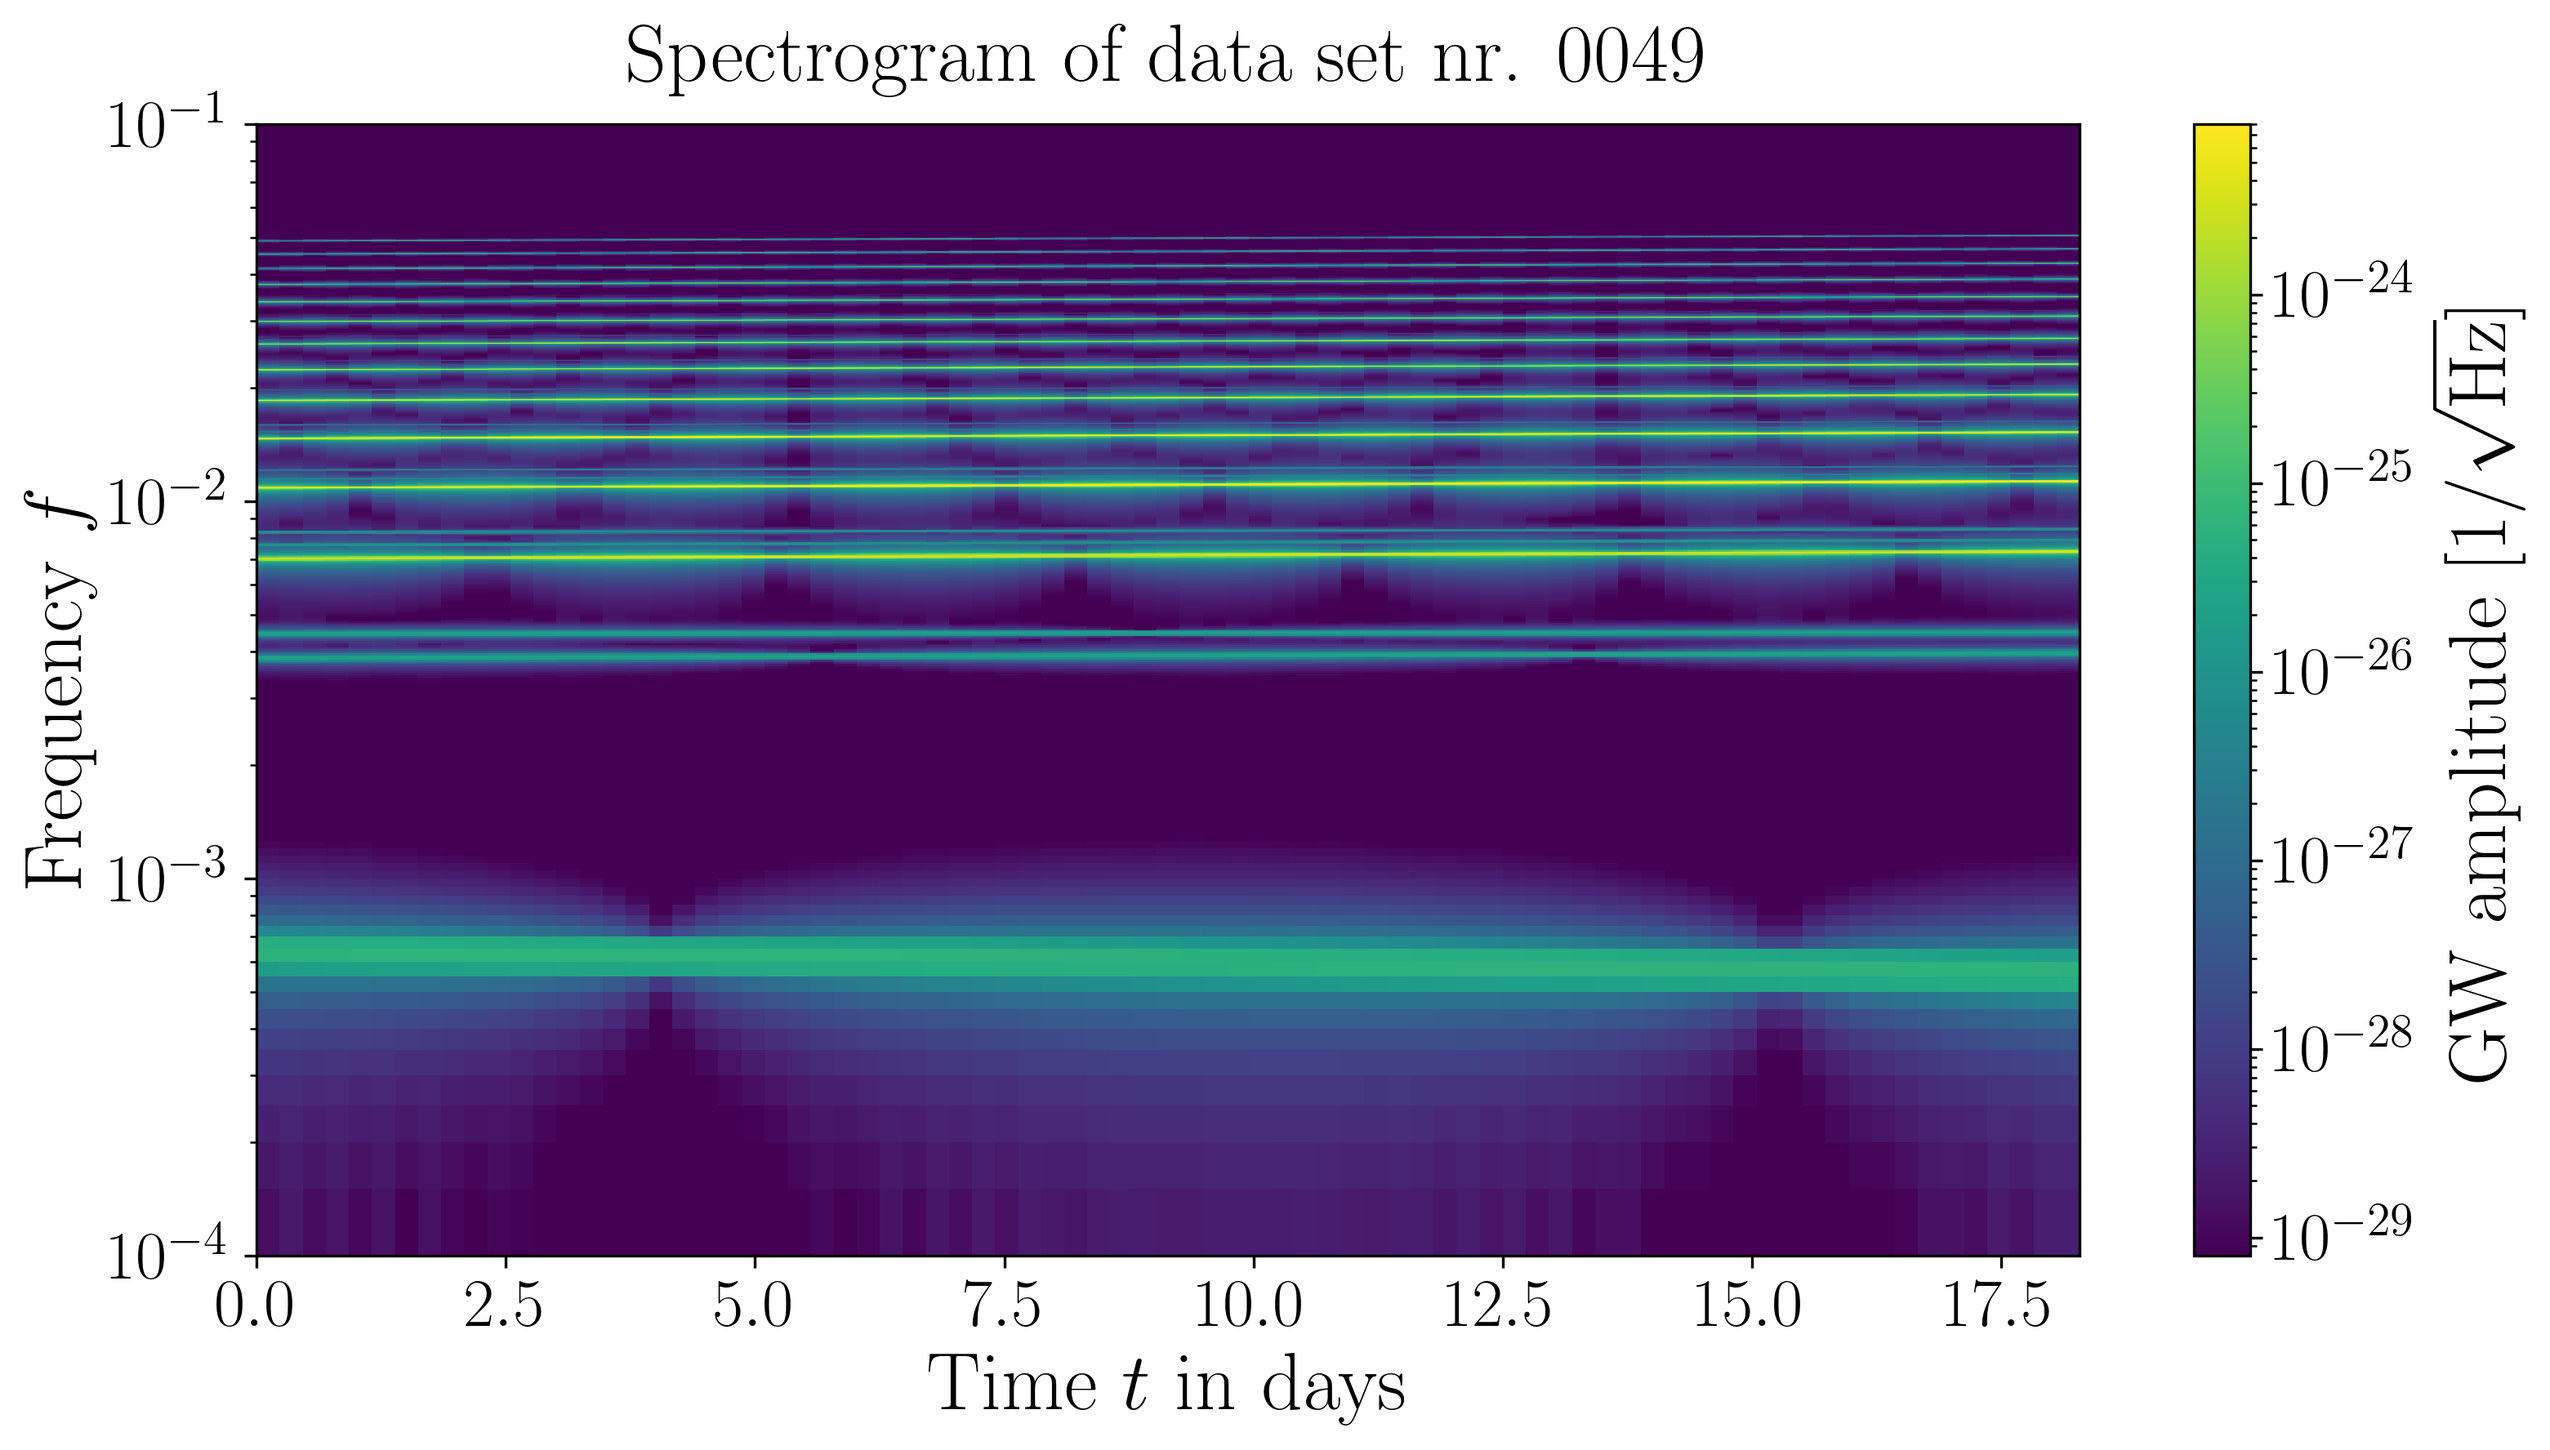
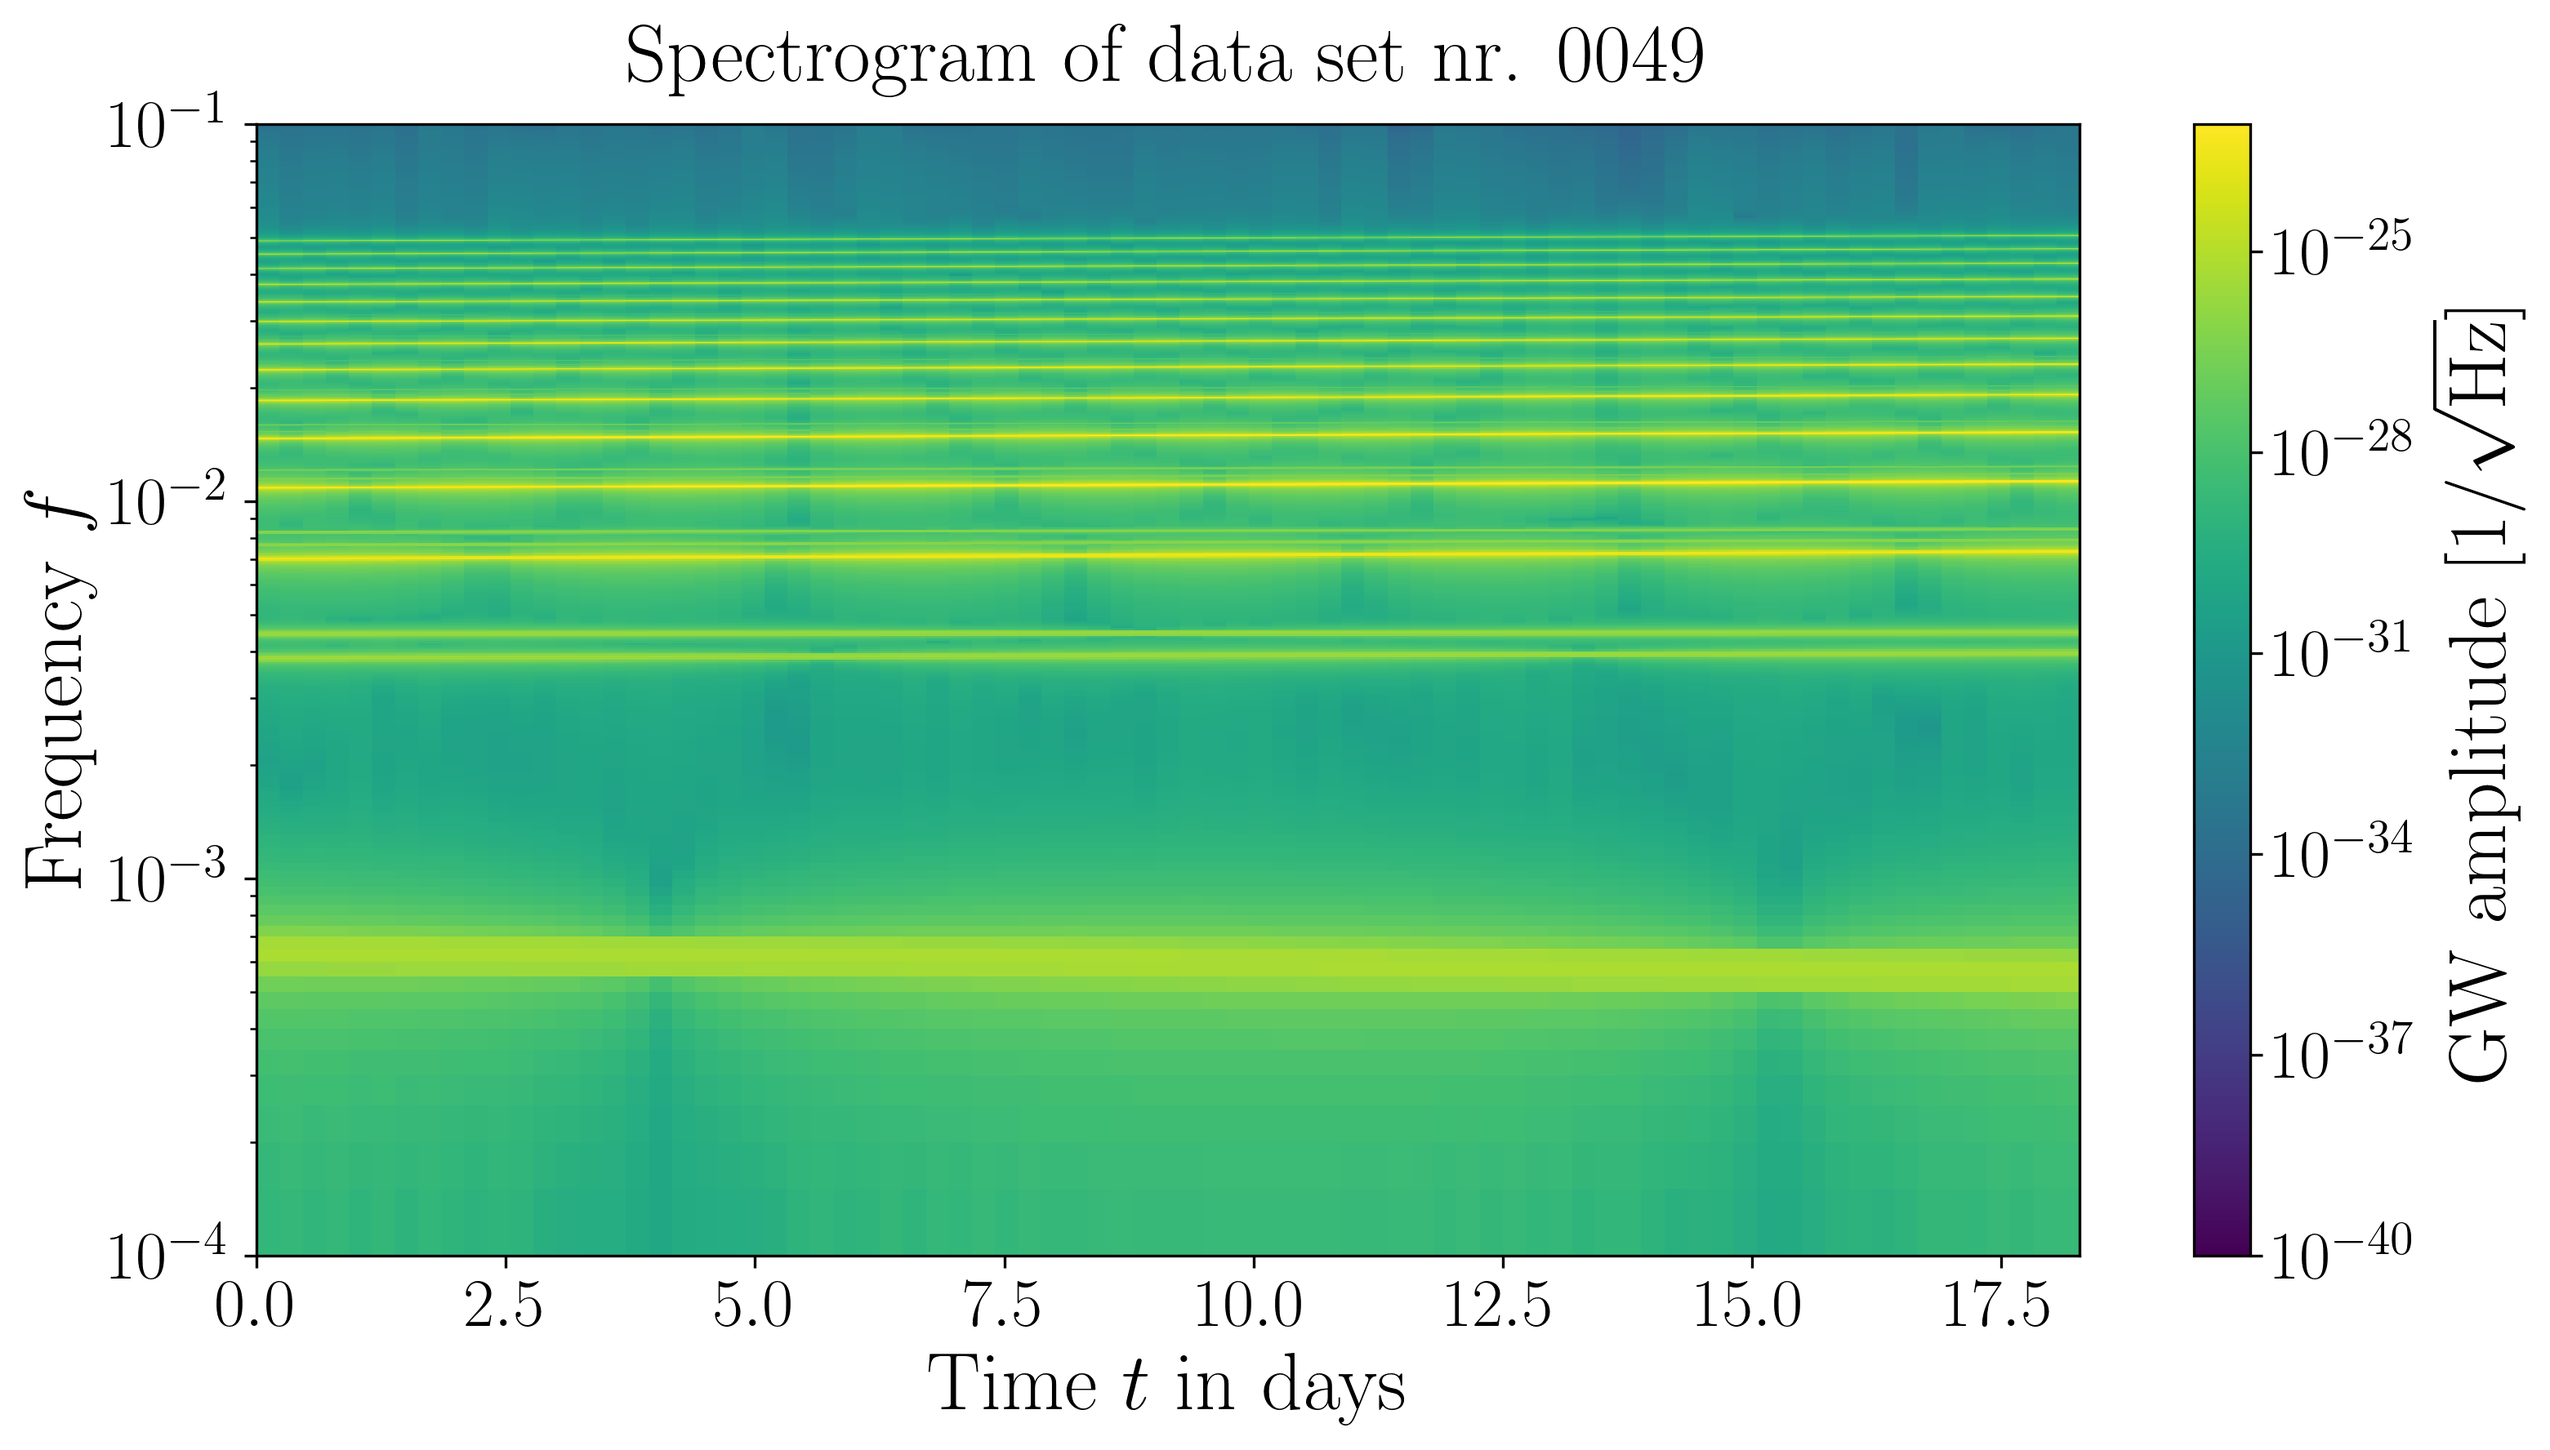
appendix B plots

diff --git a/thesis_plots/plot.py b/thesis_plots/plot.py
@@ -61,7 +61,7 @@ y = (np.arange(2E3 + 1) + 0.5) * 5E-5
 z = spec
 
 
-pc = ax.pcolormesh(x, y, z, norm = colors.LogNorm(vmin = np.max(spec) * 1E-6, vmax = np.max(spec)))
+pc = ax.pcolormesh(x, y, z, norm = colors.LogNorm(vmin = np.max(spec) * 1E-5, vmax = np.max(spec)))
 ax.set_yscale("log")
 
 ax.set_ylim(1E-4, 1E-1)
@@ -77,4 +77,4 @@ ax.set_title("Spectrogram of data set nr. {:04}".format(n), y = 1.02)
 
 ax.grid(False)
 
-plt.savefig("./thesis_plots/chapter_4/spec.png")
+plt.savefig("./thesis_plots/chapter_4/spec1E-5.png")
